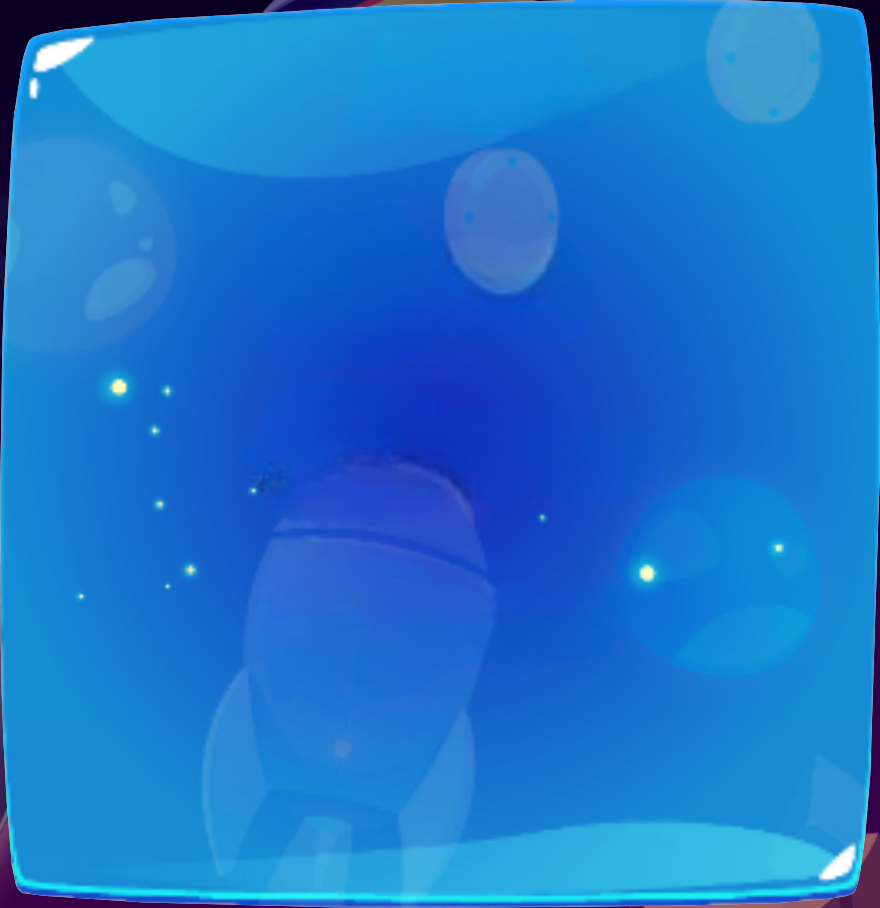
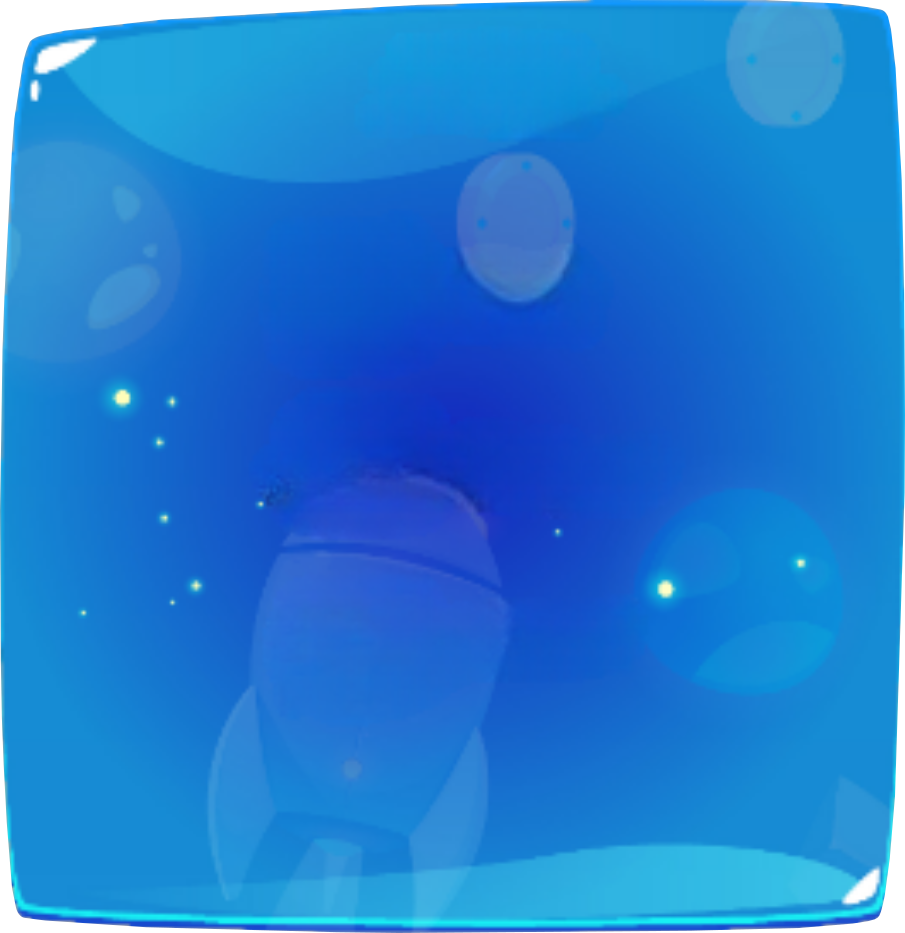
adjust

diff --git a/js/script.js b/js/script.js
@@ -99,9 +99,9 @@ function preload() {
 
 function create() {
   enabledButton = true;
-  this.add.image(540, 940, "bg-slot");
+  this.add.image(556, 960, "bg-slot");
   
-  slot = this.add.container(540, 860);
+  slot = this.add.container(556, 860);
   for (i = 0; i < 9; i++) {
     let symbol = this.add.image(595 * i, 0, spin[i].name);
     
@@ -109,13 +109,13 @@ function create() {
     symbols.push(symbol);
   }
   
-  this.add.image(540, 960, "bg");
-  this.add.image(540, 290, "sobremesa");
-  this.add.image(540, 525, "arrow-bottom");
-  textDefaultShow = this.add.image(540, 1270, "textDefault-txt");
+  this.add.image(556, 960, "bg");
+  this.add.image(556, 290, "sobremesa");
+  this.add.image(556, 525, "arrow-bottom");
+  textDefaultShow = this.add.image(556, 1270, "textDefault-txt");
 
 
-  button = this.add.sprite(540, 1650, "button").setInteractive();
+  button = this.add.sprite(556, 1650, "button").setInteractive();
   button.on("pointerdown", function () {
     move1 = true;
     spinCount = 0;
@@ -124,7 +124,7 @@ function create() {
     console.log(`Teste sorteio: ${randomSort.name}`);
   });
 
-  this.add.image(540, 1650, "button");
+  this.add.image(556, 1650, "button");
 }
 
 function update() {
@@ -136,13 +136,13 @@ function update() {
       textDefaultShow.destroy();
       if (enabledButton) {
         enabledButton = false;
-        textDefault = this.add.image(540, 1270, "textDefault-txt");
+        textDefault = this.add.image(556, 1270, "textDefault-txt");
 
         if (text) {
           text.destroy();
         }
 
-        this.add.image(540, 1650, "disabledButton");
+        this.add.image(556, 1650, "disabledButton");
         button.input.enabled = false;
       }
     } else {
@@ -151,29 +151,29 @@ function update() {
 
         switch (nameText) {
           case "chocolatinho":
-            text = this.add.image(540, 1270, "chocolatinho-txt");
+            text = this.add.image(556, 1270, "chocolatinho-txt");
             break;
           case "fruta":
-            text = this.add.image(540, 1270, "fruta-txt");
+            text = this.add.image(556, 1270, "fruta-txt");
             break;
           case "arthur-escolhe":
-            text = this.add.image(540, 1270, "arthur-escolhe-txt");
+            text = this.add.image(556, 1270, "arthur-escolhe-txt");
             break;
           case "mamae-escolhe":
-            text = this.add.image(540, 1270, "mamae-escolhe-txt");
+            text = this.add.image(556, 1270, "mamae-escolhe-txt");
             break;
           case "sorvete":
-            text = this.add.image(540, 1270, "sorvete-txt");
+            text = this.add.image(556, 1270, "sorvete-txt");
             break;
           case "picole":
-            text = this.add.image(540, 1270, "picole-txt");
+            text = this.add.image(556, 1270, "picole-txt");
             break;
           default:
-            text = this.add.image(540, 1270, "textDefault-txt");
+            text = this.add.image(556, 1270, "textDefault-txt");
         }
 
         enabledButton = true;
-        this.add.image(540, 1650, "button");
+        this.add.image(556, 1650, "button");
         button.input.enabled = true;
       }
     }

diff --git a/style.css b/style.css
@@ -3,5 +3,4 @@ body {
    padding: 0;
    display: flex;
    justify-content:center;
-   width: 100vw;
 }
